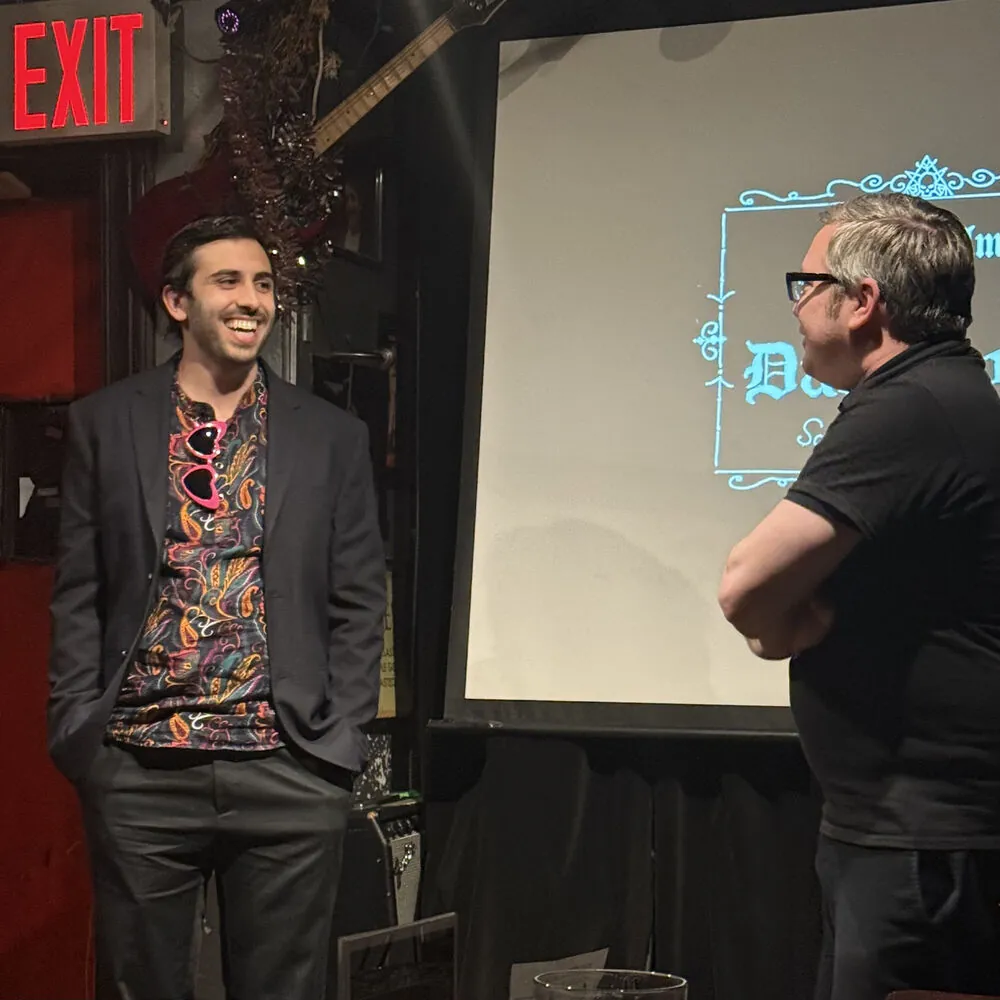
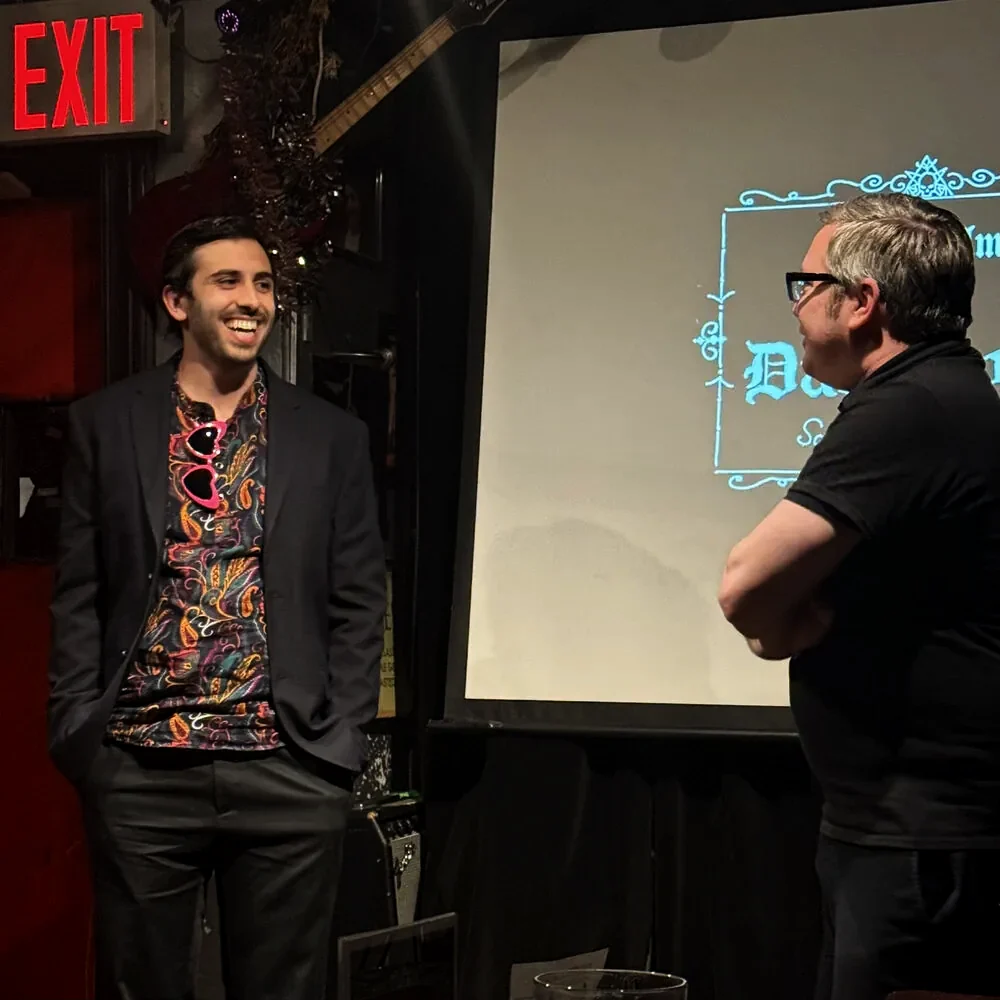
Short links open at their section after the intro, no scroll animation; deeper shadows on the DarkRoom photo
Claude-Session: https://claude.ai/code/session_01NhEa6Wb1sx8wMzvp2McT5a

diff --git a/index.html b/index.html
@@ -21,7 +21,11 @@
 <script>
 (function () {
   var seen = false, internal = false;
-  try { internal = !!document.referrer && new URL(document.referrer).host === location.host; } catch (e) {}
+  try {
+    var ref = document.referrer && new URL(document.referrer);
+    /* the /sound/ and /about/ short links (where other domains forward) count as arriving from outside */
+    internal = !!ref && ref.host === location.host && !/^\/(sound|about)\/?$/.test(ref.pathname);
+  } catch (e) {}
   try { seen = !!sessionStorage.getItem('ap-intro'); sessionStorage.setItem('ap-intro', '1'); } catch (e) {}
   var forced = /[?&]intro\b/.test(location.search);   /* add ?intro to the address to replay it */
   if (forced || (!internal && !seen && !matchMedia('(prefers-reduced-motion: reduce)').matches))
@@ -196,7 +200,7 @@
           <figure class="photo" tabindex="0"><img src="assets/photos/bts-backyard.webp" alt="Hunter on an outdoor set in headphones, holding a boom with a recorder clipped to the pole" width="900" height="1200" loading="lazy"><figcaption class="cap"><em>Between the Veil</em><span class="sep" aria-hidden="true">|</span>Short Film</figcaption></figure>
           <figure class="photo" tabindex="0"><img src="assets/photos/bts-orange-room.webp" alt="Hunter smiling with a boom pole in an orange-lit set, a crew member at the sound cart behind him" width="900" height="1200" loading="lazy"><figcaption class="cap"><em>Old Soul</em><span class="sep" aria-hidden="true">|</span>Feature Film</figcaption></figure>
           <figure class="photo wide framed" tabindex="0"><img src="assets/photos/bts-lav.webp" alt="Hunter preparing a lavalier mic and transmitter for an actor" width="1600" height="932" loading="lazy"><figcaption class="cap"><em>The Call</em><span class="sep" aria-hidden="true">|</span>Short Film</figcaption></figure>
-          <figure class="photo fill" tabindex="0"><img src="assets/photos/bts-screening.webp" alt="Hunter laughing beside a projection screen at a screening" width="1000" height="1000" loading="lazy"><figcaption class="cap"><em>intimacy.</em><span class="sep" aria-hidden="true">|</span>Hosted at DarkRoom</figcaption></figure>
+          <figure class="photo fill" tabindex="0"><img src="assets/photos/bts-screening.webp?v=2" alt="Hunter laughing beside a projection screen at a screening" width="1000" height="1000" loading="lazy"><figcaption class="cap"><em>intimacy.</em><span class="sep" aria-hidden="true">|</span>Hosted at DarkRoom</figcaption></figure>
         </div>
       </div>
 
@@ -301,6 +305,6 @@
   </div>
 </footer>
 
-<script src="js/site.js?v=4c871fe4" defer></script>
+<script src="js/site.js?v=aa819566" defer></script>
 </body>
 </html>

diff --git a/js/site.js b/js/site.js
@@ -4,6 +4,24 @@
 
   document.getElementById('yr').textContent = new Date().getFullYear();
 
+  // Short links (/sound/, /about/) arrive as /?to=sound: start the page already at that section,
+  // with no scroll animation, and tidy the address to /#sound. Re-pinned once images settle, unless the visitor has moved.
+  var to = /[?&]to=([\w-]+)/.exec(location.search), target = to && document.getElementById(to[1]), pin = null;
+  if (target) {
+    history.replaceState(null, '', location.pathname + '#' + to[1]);
+    var moved = false;
+    ['wheel', 'touchstart', 'keydown'].forEach(function (t) { addEventListener(t, function () { moved = true; }, { passive: true, once: true }); });
+    pin = function () {
+      if (moved) return;
+      var r = document.documentElement, b = r.style.scrollBehavior;
+      r.style.scrollBehavior = 'auto';
+      target.scrollIntoView();
+      r.style.scrollBehavior = b;
+    };
+    pin();
+    addEventListener('load', pin, { once: true });
+  }
+
   // Intro (first visit from outside the site; see the script in the page head).
   // The bird rises in, winks, then glides into its place in the hero logo.
   var intro = document.querySelector('.splash');
@@ -36,6 +54,7 @@
         intro.remove();
         root.classList.remove('splash-on');
         root.style.overflow = '';
+        if (pin) pin();
         if (shown) shown.cancel();
       };
       (fast ? intro.animate([{ opacity: 1 }, { opacity: 0 }], { duration: 300, easing: 'ease', fill: 'forwards' }).finished : wait(400)).then(done);

diff --git a/sound/index.html b/sound/index.html
@@ -2,14 +2,14 @@
 <html lang="en">
 <head>
 <meta charset="utf-8">
-<!-- Short link: accipiterpictures.com/sound/ jumps to the sound section. Other domains forward here. -->
+<!-- Short link: accipiterpictures.com/sound/ opens the site already at the sound section (no scroll animation). Other domains forward here. -->
 <title>Hunter Hawke Sound · Accipiter Pictures</title>
 <meta name="robots" content="noindex">
 <link rel="canonical" href="https://accipiterpictures.com/#sound">
-<meta http-equiv="refresh" content="0; url=/#sound">
-<script>location.replace('/#sound');</script>
+<meta http-equiv="refresh" content="0; url=../?to=sound">
+<script>location.replace('../?to=sound');</script>
 </head>
 <body style="background:#000;color:#fff;font-family:system-ui,sans-serif">
-<p><a href="/#sound" style="color:#fff">Continue to Hunter Hawke Sound</a></p>
+<p><a href="../#sound" style="color:#fff">Continue to Hunter Hawke Sound</a></p>
 </body>
 </html>

diff --git a/about/index.html b/about/index.html
@@ -2,14 +2,14 @@
 <html lang="en">
 <head>
 <meta charset="utf-8">
-<!-- Short link: accipiterpictures.com/about/ jumps to the about section. Other domains forward here. -->
+<!-- Short link: accipiterpictures.com/about/ opens the site already at the about section (no scroll animation). Other domains forward here. -->
 <title>Hunter Hawke · Accipiter Pictures</title>
 <meta name="robots" content="noindex">
 <link rel="canonical" href="https://accipiterpictures.com/#about">
-<meta http-equiv="refresh" content="0; url=/#about">
-<script>location.replace('/#about');</script>
+<meta http-equiv="refresh" content="0; url=../?to=about">
+<script>location.replace('../?to=about');</script>
 </head>
 <body style="background:#000;color:#fff;font-family:system-ui,sans-serif">
-<p><a href="/#about" style="color:#fff">Continue to Hunter Hawke</a></p>
+<p><a href="../#about" style="color:#fff">Continue to Hunter Hawke</a></p>
 </body>
 </html>
